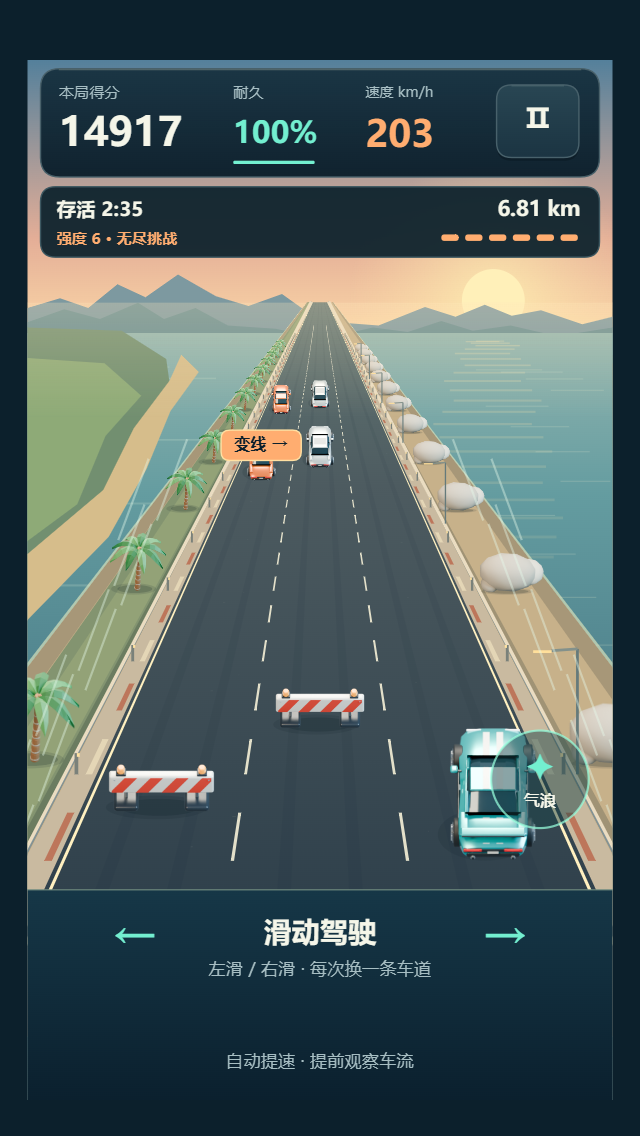
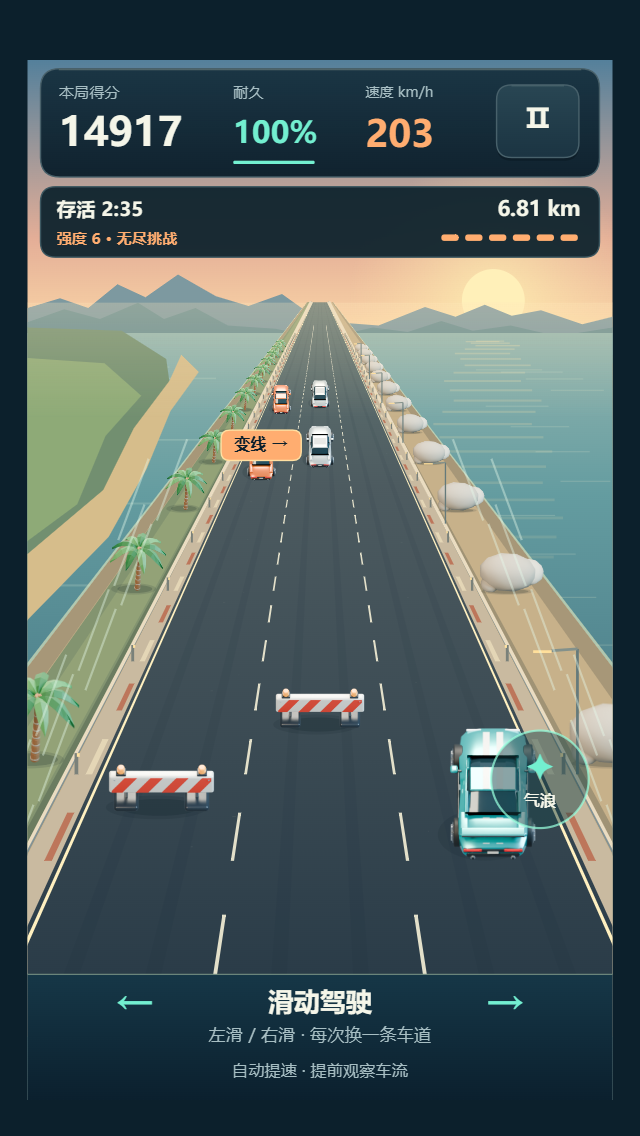
Compact bottom swipe guidance panel

Changed region(s): [[0.0312, 0.7702, 0.9688, 0.9551]]

diff --git a/公路之王/src/game-app.js b/公路之王/src/game-app.js
@@ -224,8 +224,8 @@ class RoadKingApp {
     for(let i=0;i<6;i++)this.rr(382+i*22,161,16,6,3,i<difficulty.tier?danger?C.orange:C.cyan:'#3a515b');
     if(playing&&g.messageTimer>0&&g.message){const message=String(g.message);this.rr(20,199,500,42,12,'rgba(10,27,38,.93)');this.txt(message,270,220,message.length>27?13:16,C.white,'bold','center');}
     if(playing&&g.elapsed<7){this.rr(111,276,318,42,12,'rgba(10,27,38,.88)');this.txt('← 左右滑动，连续闪避 →',270,297,18,C.white,'bold','center');}
-    const controls=c.createLinearGradient(0,766,0,H);controls.addColorStop(0,'#163747');controls.addColorStop(1,'#0b202e');c.fillStyle=controls;c.fillRect(0,766,W,194);this.line(0,766,W,766,'#769082');
-    this.txt('←',99,814,39,C.cyan,'bold','center');this.txt('滑动驾驶',270,807,26,C.white,'bold','center');this.txt('→',441,814,39,C.cyan,'bold','center');this.txt('左滑 / 右滑 · 每次换一条车道',270,840,16,C.mute,'normal','center');
+    const controls=c.createLinearGradient(0,844,0,H);controls.addColorStop(0,'#163747');controls.addColorStop(1,'#0b202e');c.fillStyle=controls;c.fillRect(0,844,W,116);this.line(0,844,W,844,'#769082');
+    this.txt('←',99,875,34,C.cyan,'bold','center');this.txt('滑动驾驶',270,872,24,C.white,'bold','center');this.txt('→',441,875,34,C.cyan,'bold','center');this.txt('左滑 / 右滑 · 每次换一条车道',270,901,16,C.mute,'normal','center');
     if(playing){
       const x=473,y=664,r=45,cooling=g.pulseCooldown>0;
       c.save();c.beginPath();c.arc(x,y,r,0,Math.PI*2);c.fillStyle=cooling?'rgba(20,43,53,.42)':'rgba(24,65,68,.48)';c.fill();c.strokeStyle=cooling?'rgba(205,232,224,.32)':'rgba(151,255,221,.72)';c.lineWidth=2;c.stroke();
@@ -233,7 +233,7 @@ class RoadKingApp {
       this.txt(cooling?Math.ceil(g.pulseCooldown)+'s':'✦',x,y-9,cooling?23:30,cooling?C.white:C.cyan,'bold','center');this.txt('气浪',x,y+21,15,C.white,'bold','center');c.restore();
       this.buttons.push({x:x-r,y:y-r,w:r*2,h:r*2,circle:true,key:'气浪技能',disabled:cooling,action:()=>g.pulse()});
     }
-    this.txt('自动提速 · 提前观察车流',270,925,16,C.mute,'normal','center');
+    this.txt('自动提速 · 提前观察车流',270,934,15,C.mute,'normal','center');
   }
   scrim(){this.ctx.fillStyle='rgba(3,12,19,.83)';this.ctx.fillRect(0,0,W,H);this.buttons=[];}
   drawPause(){
